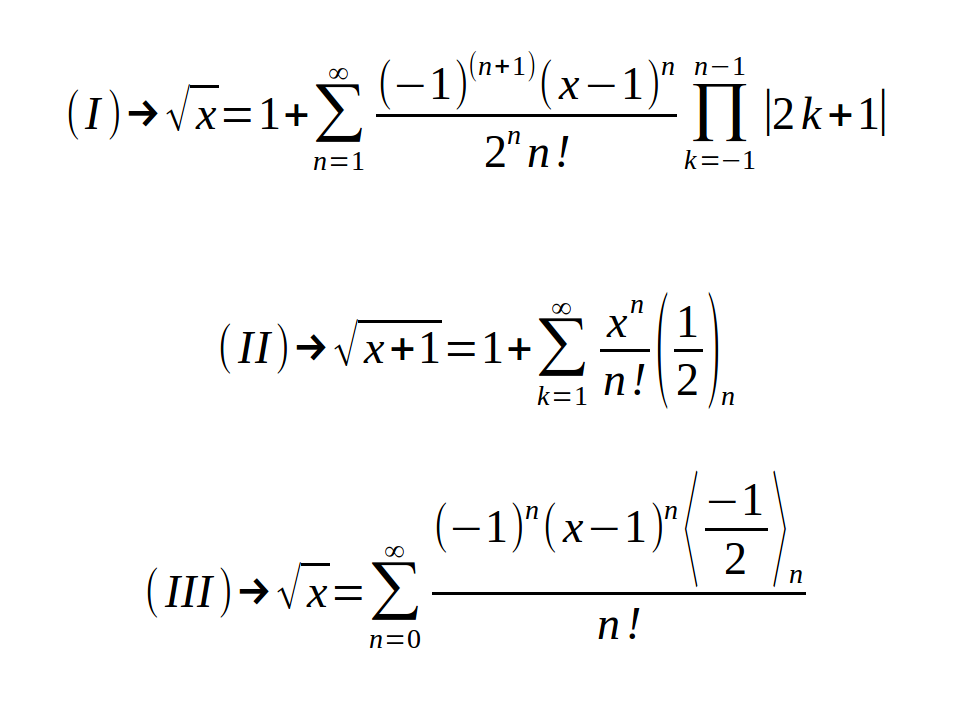
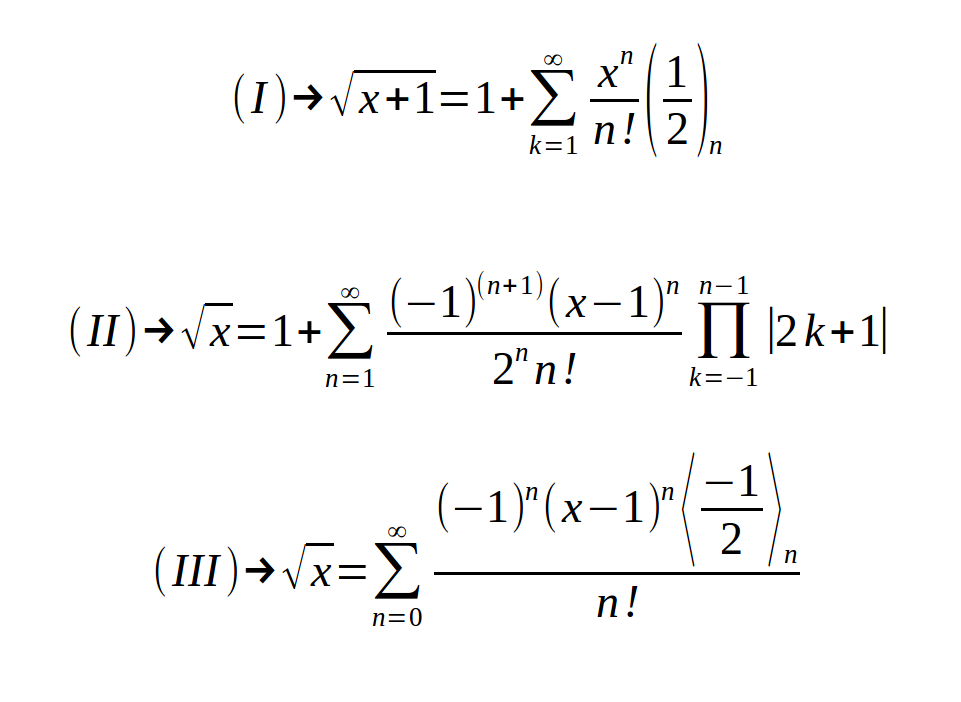
Swap the order of series I <-> II and fix other things

diff --git a/README.md b/README.md
@@ -9,14 +9,14 @@ __*Abstract*__: The coding focus is a implementation in C of heuristics solution
 
 
 In order the series:
-  * _(I)_ My own series whose i found with my hands before an odd notice... (would not necessary)
-  * _(II)_ The series than Prof. Sávio give us and Gabriel it's not a her fan [*1*]
+  * _(I)_ The series than Prof. Sávio give us and Gabriel it's not a her fan [*1*] 
+  * _(II)_ My own series whose i found with my hands before an odd notice... (would not necessary)
   * _(III)_ The second series approximation we see in platform of mathematics [wolfram](http://www.wolframalpha.com/share/clip?f=d41d8cd98f00b204e9800998ecf8427ek7hsa4aeht) ! [*2*]
 
 ##  Observations
-  * Here is a documentation about of rising factorial, whose the notation of *Pochhammer* for denote in series (II) and (III): [*Pochhammer Symbol*](http://mathworld.wolfram.com/PochhammerSymbol.html)
-    1. (II)  [*Falling Factorial*](http://mathworld.wolfram.com/RisingFactorial.html)
-    2. (III) [*Rising Factorial*](http://mathworld.wolfram.com/FallingFactorial.html)
+  * Here is a documentation about of rising factorial, whose the notation of *Pochhammer* for denote in series (I) and (III): [*Pochhammer Symbol*](http://mathworld.wolfram.com/PochhammerSymbol.html)
+    1. (I)  [*Rising Factorial*](http://mathworld.wolfram.com/RisingFactorial.html)
+    2. (III) [*Falling Factorial*](http://mathworld.wolfram.com/FallingFactorial.html)
 
 ## Contributing
 
